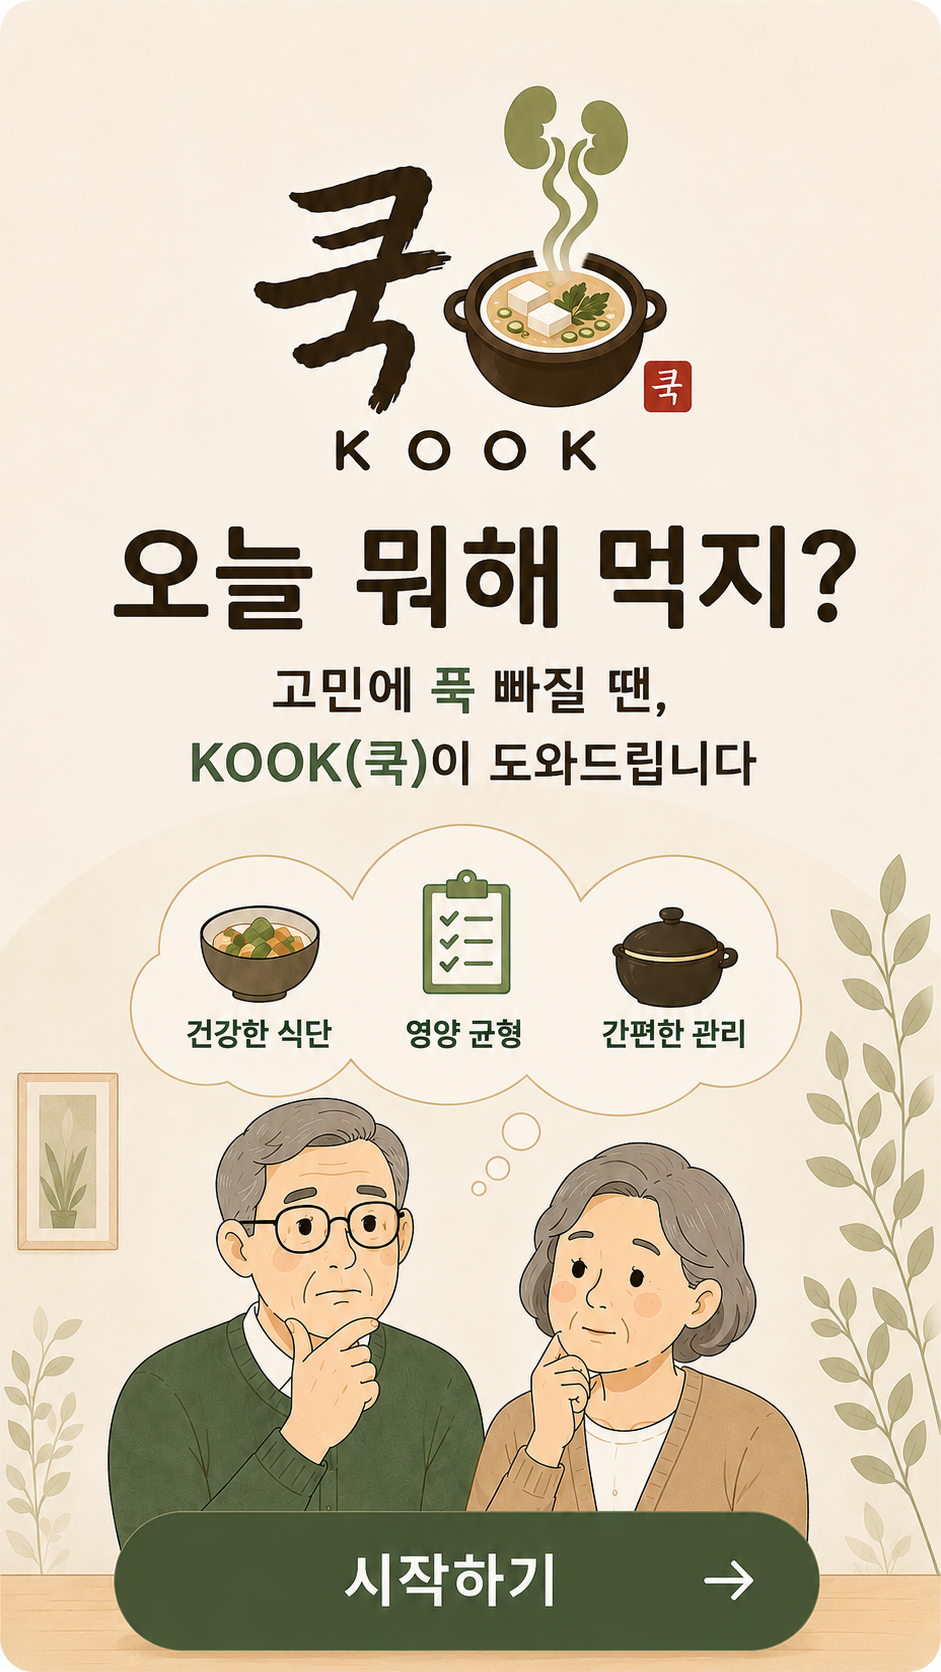
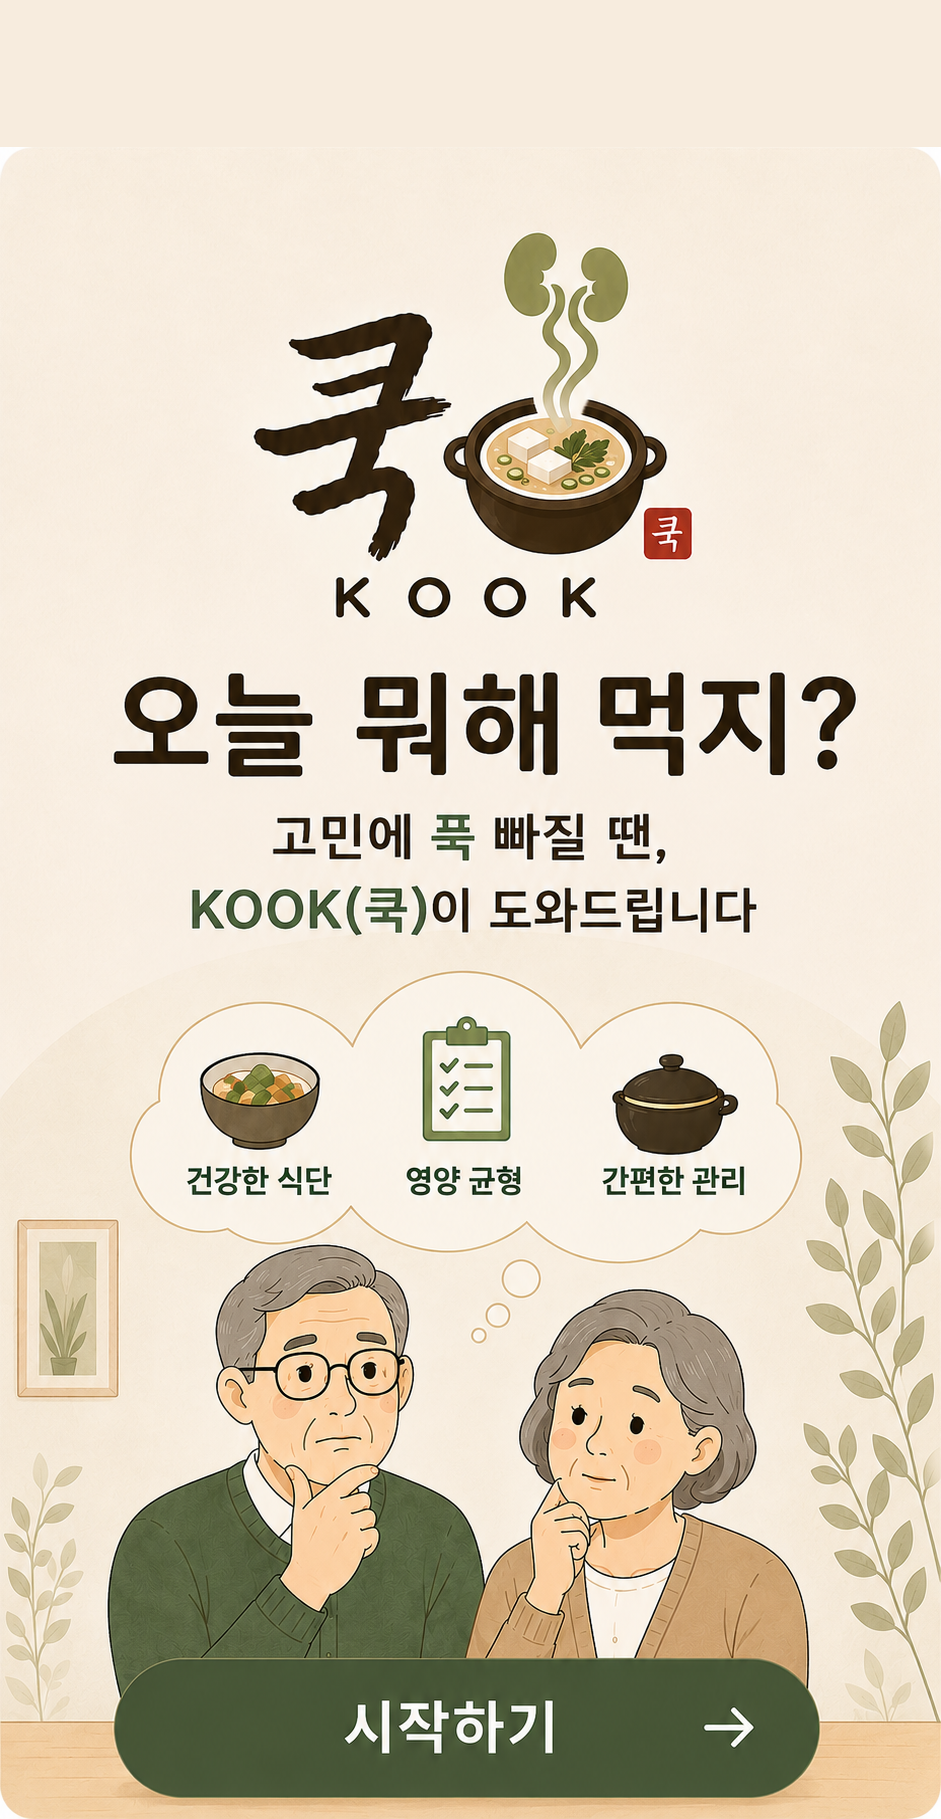
fix: 홈 이미지를 온보딩 1~5와 같은 비율·렌더링으로 통일
홈만 비율 1.777이라 1~5(1.92~1.96)와 다르게 보였다.

- 홈 이미지 위쪽에 원본 배경색(#F7ECDE)을 147px 덧대 비율 1.933으로 맞춤
  (아래쪽에는 시작하기 버튼이 있어 건드릴 수 없어 위쪽에 덧댔다)
  경계 색차 3 — 이어붙인 티가 나지 않는다
- 렌더링도 1~5와 동일하게 contain 방식으로 통일
- 홈만 아래 정렬 — 버튼이 화면 아래에 붙고 남는 공간은 위로 간다
- 버튼 좌표를 새 비율 기준으로 갱신 (top 90.5% → 91.3%)

430x932 기준 그림 430x831, 버튼은 화면 아래에서 12px

diff --git a/frontend/src/fluid.css b/frontend/src/fluid.css
@@ -349,34 +349,19 @@
 /* ============================================================================
    v22 — 스플래시 이미지 · 체험 안내 팝업 · 저장 목적지 통일
    ========================================================================== */
-/* 스플래시: 시안 이미지를 손대지 않고 그대로 한 화면으로 쓰고,
-   그림 속 '시작하기' 버튼 위에 투명한 진짜 버튼만 겹쳐 눌리게 한다.
-   위치 값은 이미지에서 픽셀 단위로 실측한 비율 (이미지가 바뀌면 다시 재야 함). */
+/* 스플래시: 온보딩 1~5와 완전히 같은 방식으로 그린다.
+   이미지 비율도 1.933으로 맞춰뒀으므로(위쪽에 배경색을 덧댐) 여섯 장이 동일하게 보인다. */
 .splash-shot {
   width: 100%; height: 100%;
-  background: #FAF4EC;
-  display: flex; align-items: flex-end; justify-content: center;
+  background: #F7ECDE;              /* 이미지 배경과 같은 색 */
   overflow: hidden;
 }
-/* 화면 비율에 맞춰 이미지를 '적당히' 키워 채운다.
-   · 화면이 이미지와 비슷한 비율이면 → 확대 없음, 좌우도 안 잘림
-   · 화면이 길면 → 최대 1.12배까지만 키워 채우고, 그래도 남는 곳은 배경색
-   이미지 원본 비율 1672/941 = 1.777. 100cqw = 앱 프레임 폭. */
-.splash-frame {
-  position: relative;
-  width: 100%;
-  height: min(100%, calc(100cqw * 1.777 * 1.12));
-  overflow: hidden;
-}
+.splash-frame { position: relative; width: 100%; height: 100%; }
 .splash-frame img {
-  display: block;
-  width: 100%; height: 100%;
-  object-fit: cover; object-position: bottom center;
-}
-@supports not (width: 100cqw) {
-  /* 컨테이너 쿼리 미지원 브라우저: 확대 없이 폭에 맞춘다 */
-  .splash-frame { height: auto; }
-  .splash-frame img { height: auto; }
+  display: block; width: 100%; height: 100%;
+  /* 홈은 하단에 시작하기 버튼이 있으므로 아래에 붙인다.
+     남는 공간은 위(로고 위 여백)로 가고 배경색이 같아 이어져 보인다. */
+  object-fit: contain; object-position: bottom center;
 }
 
 /* 그림 속 '시작하기' 버튼 위에 겹치는 투명 버튼.
@@ -384,7 +369,7 @@
    위치는 이미지에서 실측한 비율 (이미지가 바뀌면 다시 재야 함). */
 .splash-hit {
   position: absolute;
-  left: 12.1%; right: 13.1%; top: 90.5%; bottom: 1.4%;
+  left: 12.1%; right: 13.1%; top: 91.3%; bottom: 1.3%;
   border: 0; background: transparent; padding: 0;
   border-radius: 999px; cursor: pointer;
   -webkit-tap-highlight-color: transparent;
